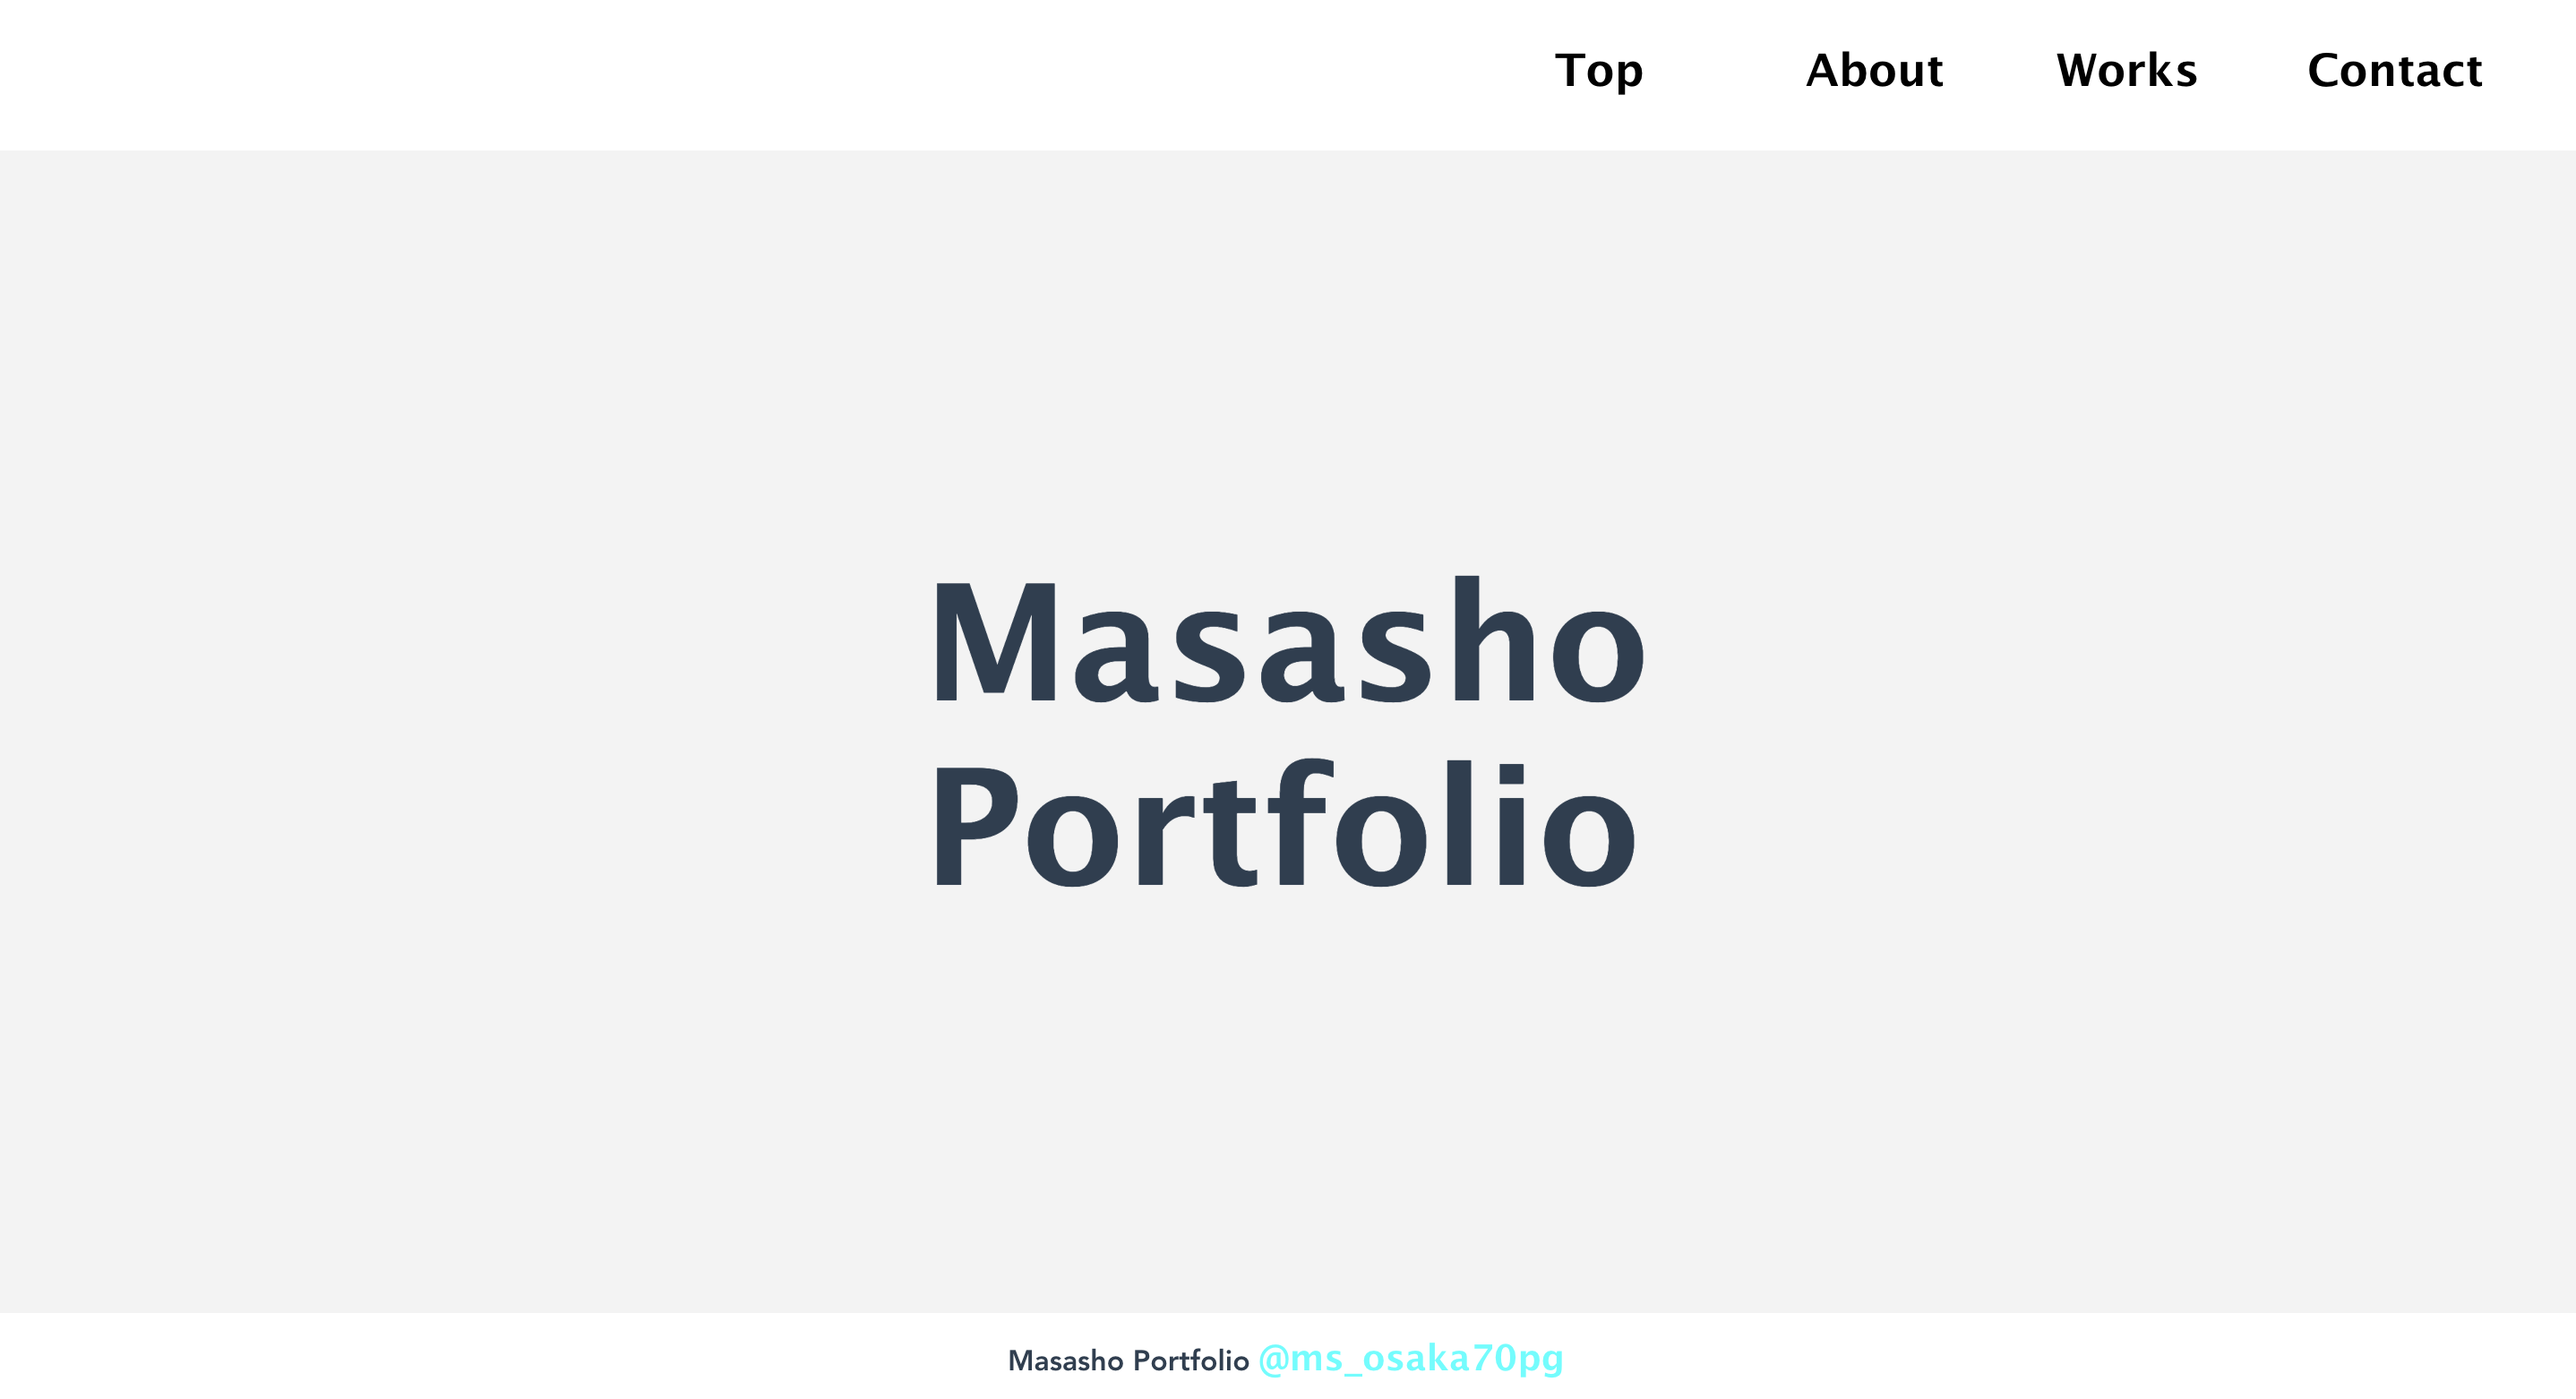
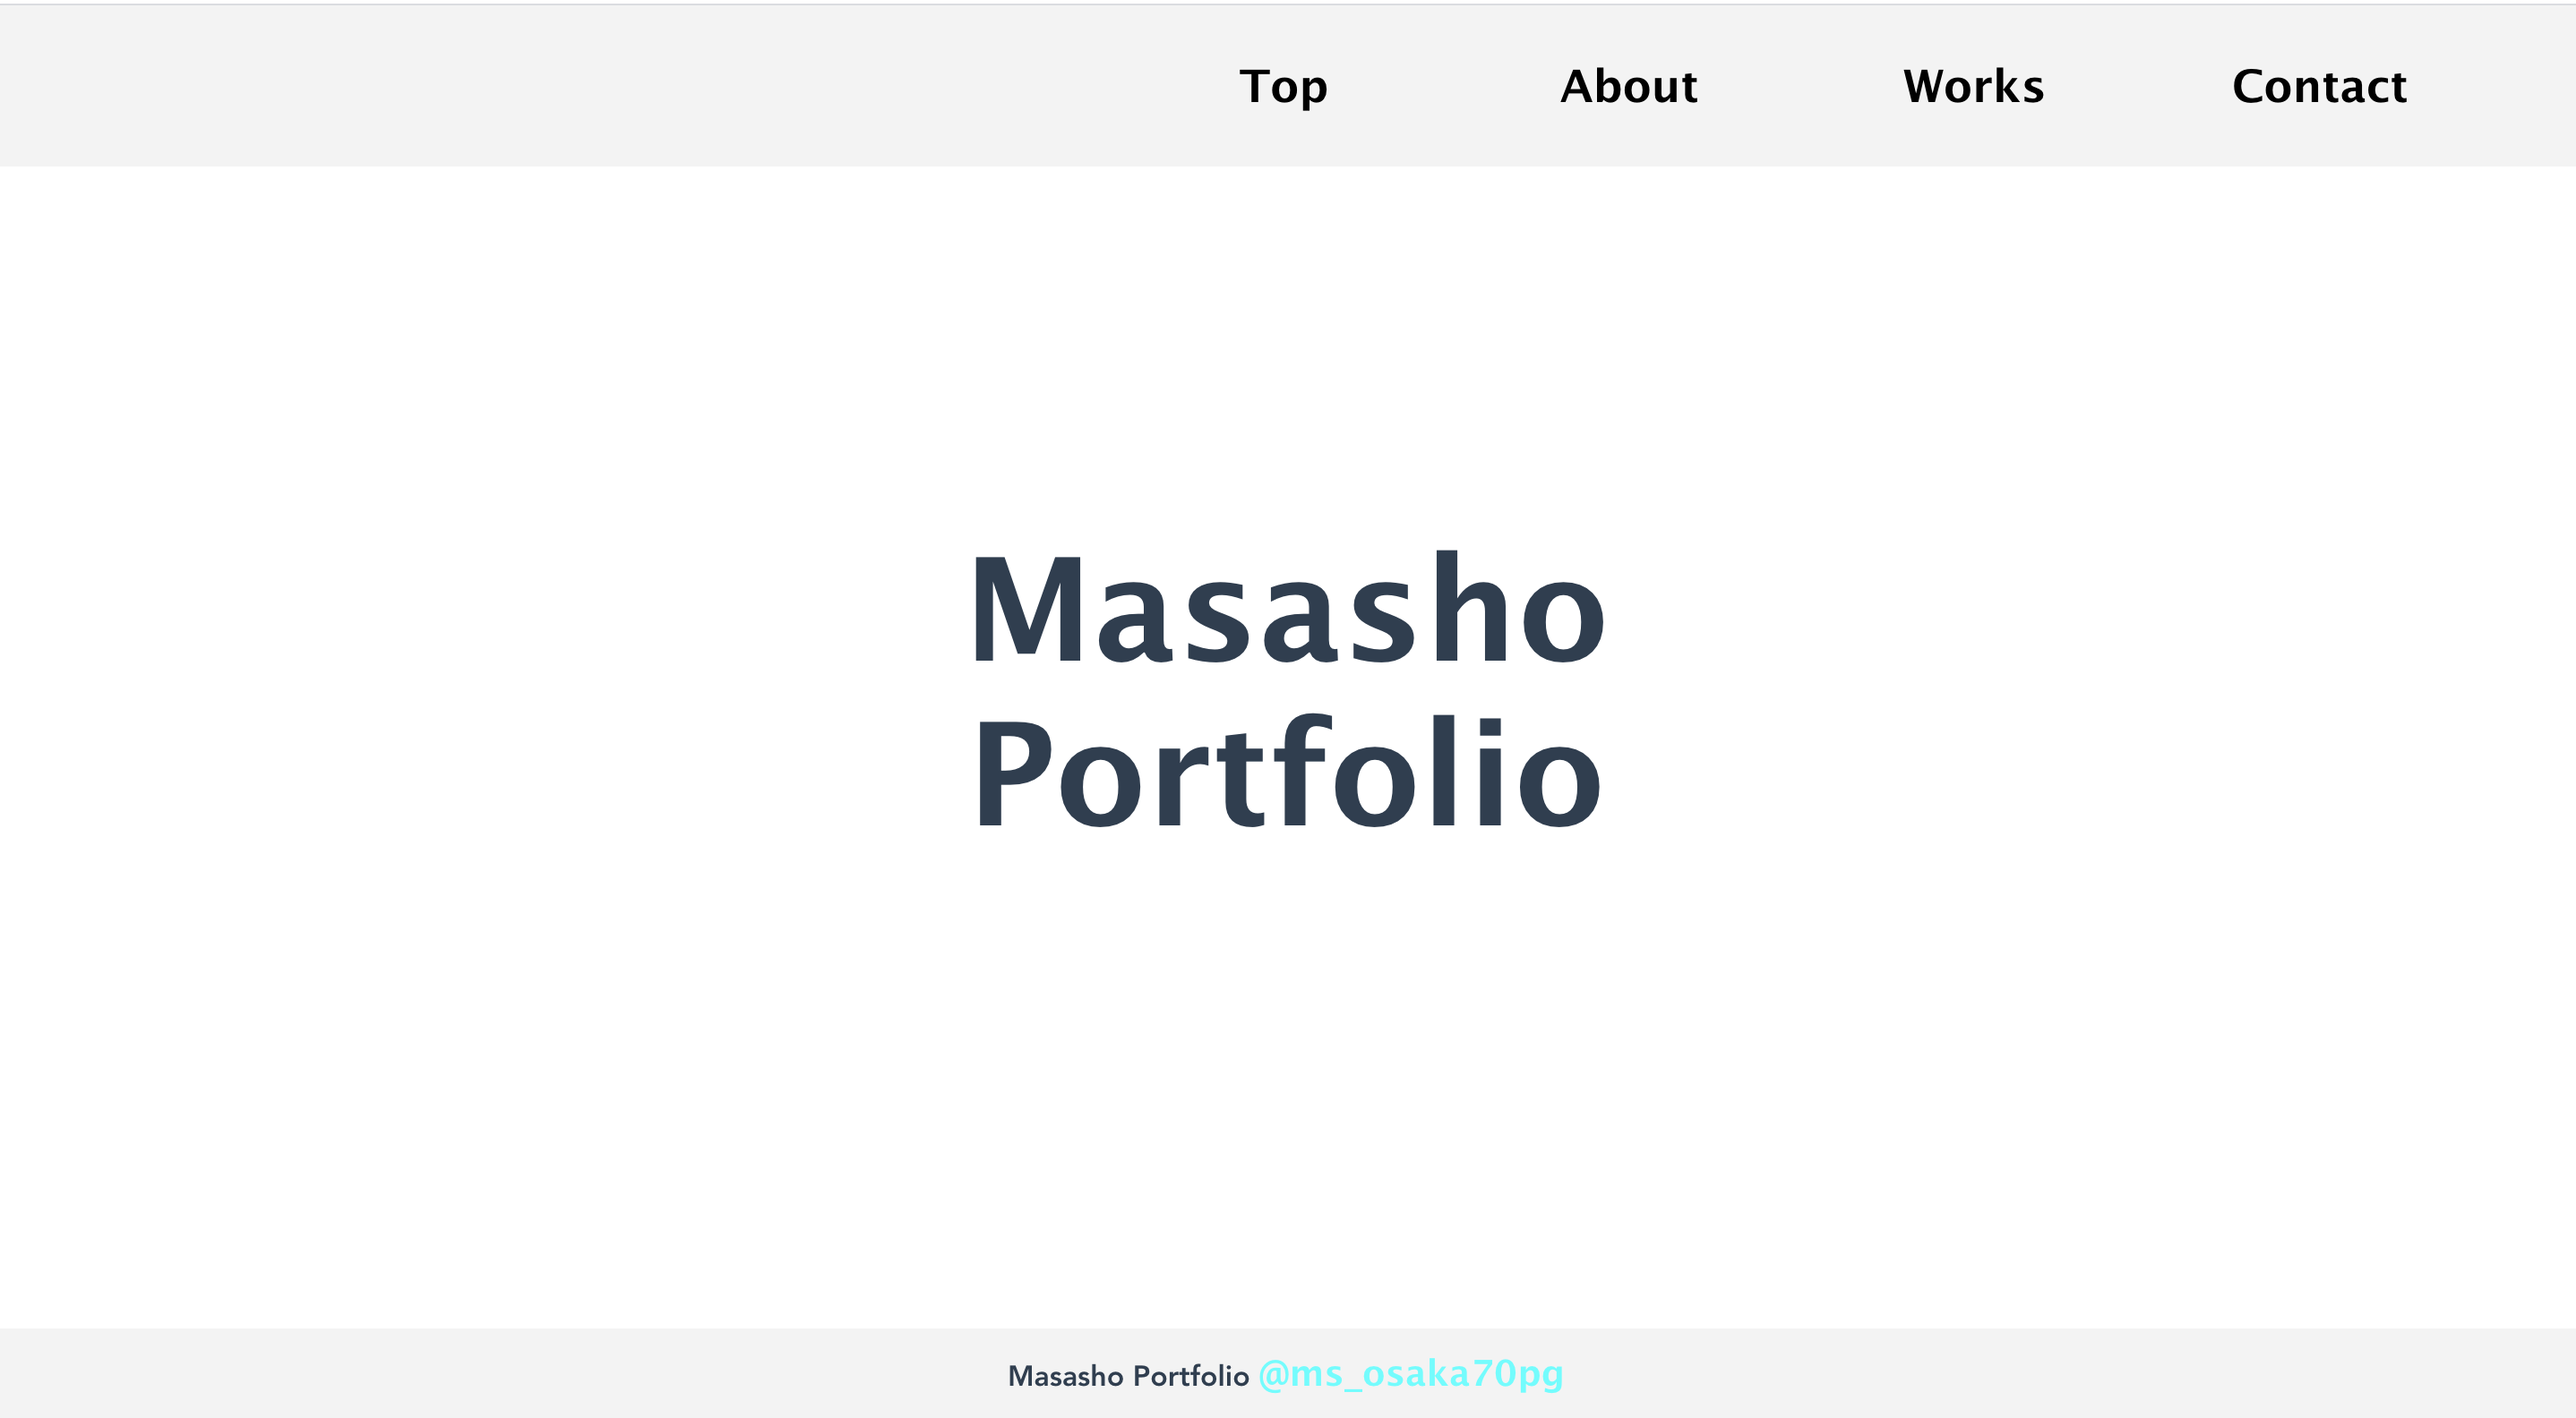
edit page css
デプロイのためのCSSの調整と文章追加。

diff --git a/src/components/WorksPage.vue b/src/components/WorksPage.vue
@@ -6,10 +6,16 @@
       <div class="work-box">
         <img class="work-picture" src="../assets/work2.png"/>
         <p1>チャットアプリ</p1>
+        <p2>スクールのカリキュラムにて作成。</p2>
+        <p2>Haml/Sass/Ruby on Rails/Jquery/AWS</p2>
+        <a href= "https://github.com/iris5115/chat-space" target="_blank">git hub</a>
       </div>
       <div class="work-box">
         <img class="work-picture" src="../assets/work1.png"/>
         <p1>ポートフォリオ</p1>
+        <p2>自分自身のポートフォリオです。</p2>
+        <p2>HTML/CSS/Vue.js/Firebase</p2>
+        <a href= "https://github.com/iris5115/portfolio" target="_blank">git hub</a>
       </div>
       <div class="work-box">
         <div class="no-work-box">準備中</div>
@@ -40,7 +46,20 @@
     font-size: 60px;
   }
   p1 {
-    font-size: 30px;
+    font-size: 20px;
+    display: block;
+    padding-bottom: 15px;
+  }
+  p2 {
+    font-size: 15px;
+    display: block;
+    padding-top: 10px;
+  }
+  a {
+    font-size: 15px;
+    display: block;
+    text-decoration: none;
+    padding-top: 15px;
   }
   .work {
     display:flex;
@@ -51,7 +70,7 @@
   .work-box {
     width: 25%;
     min-width: 350px;
-    height: 300px;
+    min-height: 350px;
     box-shadow: 0 0 15px 0 rgba(0,0,0,.1);
     background-color: #ffffff;
     border-radius: 20px;
@@ -61,7 +80,7 @@
   }
   .work-picture {
     width:100%;
-    padding-bottom: 40px;
+    padding-bottom: 15px;
   }
   .no-work-box {
     min-width: 350px;
@@ -82,6 +101,19 @@
   }
   p1 {
     font-size: 15px;
+    display: block;
+    padding-bottom: 10px;
+  }
+  p2 {
+    font-size: 12px;
+    display: block;
+    padding-top: 5px;
+  }
+  a {
+    font-size: 12px;
+    display: block;
+    text-decoration: none;
+    padding-top: 10px;
   }
   .work {
     display:flex;

diff --git a/src/components/AboutPage.vue b/src/components/AboutPage.vue
@@ -4,13 +4,13 @@
     <div class="profiles">
       <div class="profile">
         <div class="left-profile">
-          <img class="my-image-picture" src="../assets/my-image-picture.png"/>
+          <img class="my-image-picture" src="../assets/my-image-picture.jpeg"/>
         </div>
         <div class="right-profile">
           <h1>Profile</h1>
           <p1>まさしょーです。０から１を作るエンジニアの仕事に憧れ、2020年1月から転職に向け本格的にプログラミングを勉強中！<br>
           プライベートでは自身のスキル向上も兼ねてwebサービスの個人開発をしています。<br>
-          最近、機械学習に興味が出てきたのでPythonを使ったサービスを作ることを検討中。</p1>
+          機械学習に興味が出てきたので、Pythonを用いたサービスを作ることを検討中。</p1>
         </div>
       </div>
     </div>

diff --git a/src/components/HeaderMenu.vue b/src/components/HeaderMenu.vue
@@ -48,6 +48,7 @@ a {
 div {
   background: #f3f3f3;
   width: 100vw;
+  box-shadow: 0 8px 3px -3px rgba(0, 0, 0, 0.05);
 }
 
 @media (max-width: 1000px)

diff --git a/src/components/FooterMenu.vue b/src/components/FooterMenu.vue
@@ -18,6 +18,7 @@
   background: #f3f3f3;
   height: 50px;
   width: 100%;
+  box-shadow: 0 -8px 3px -3px rgba(0, 0, 0, 0.05);
 }
 a {
   width: 100%;
